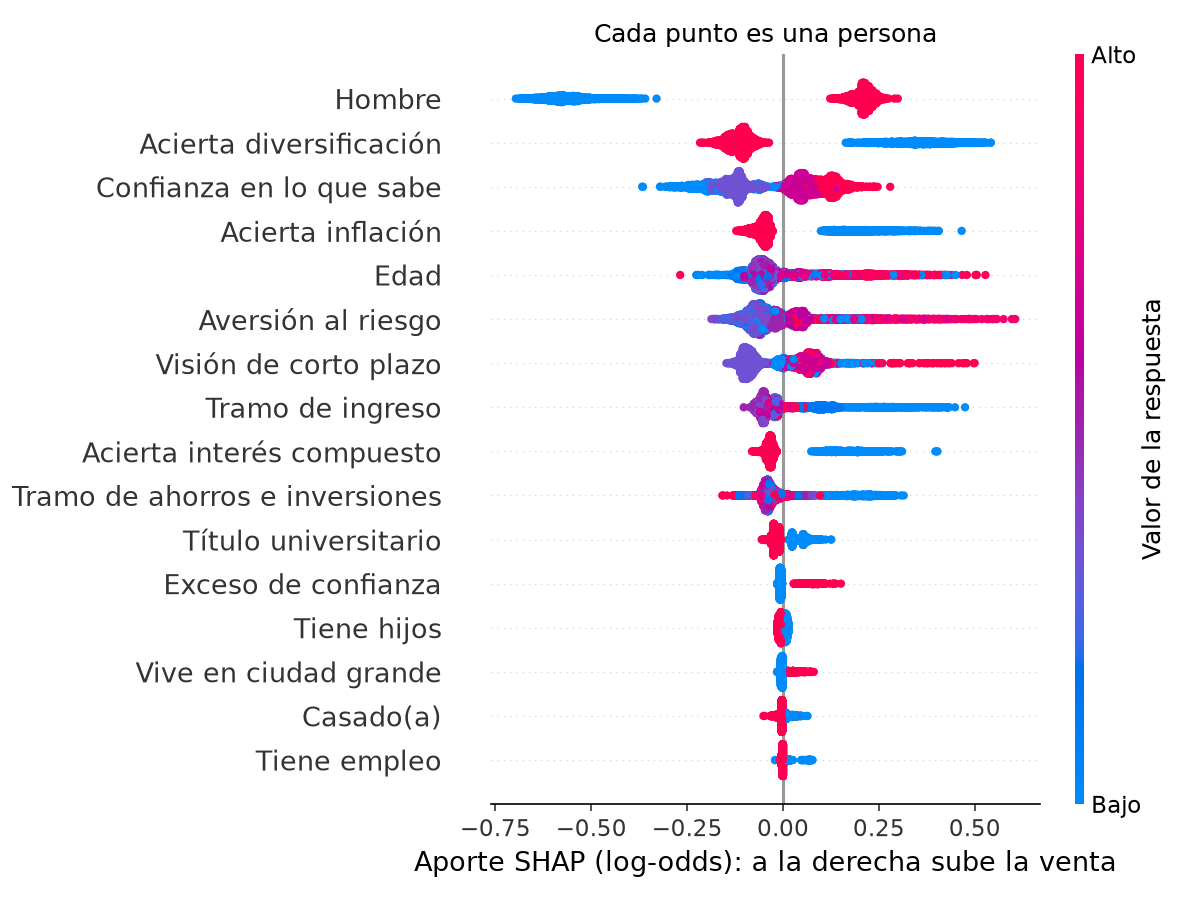
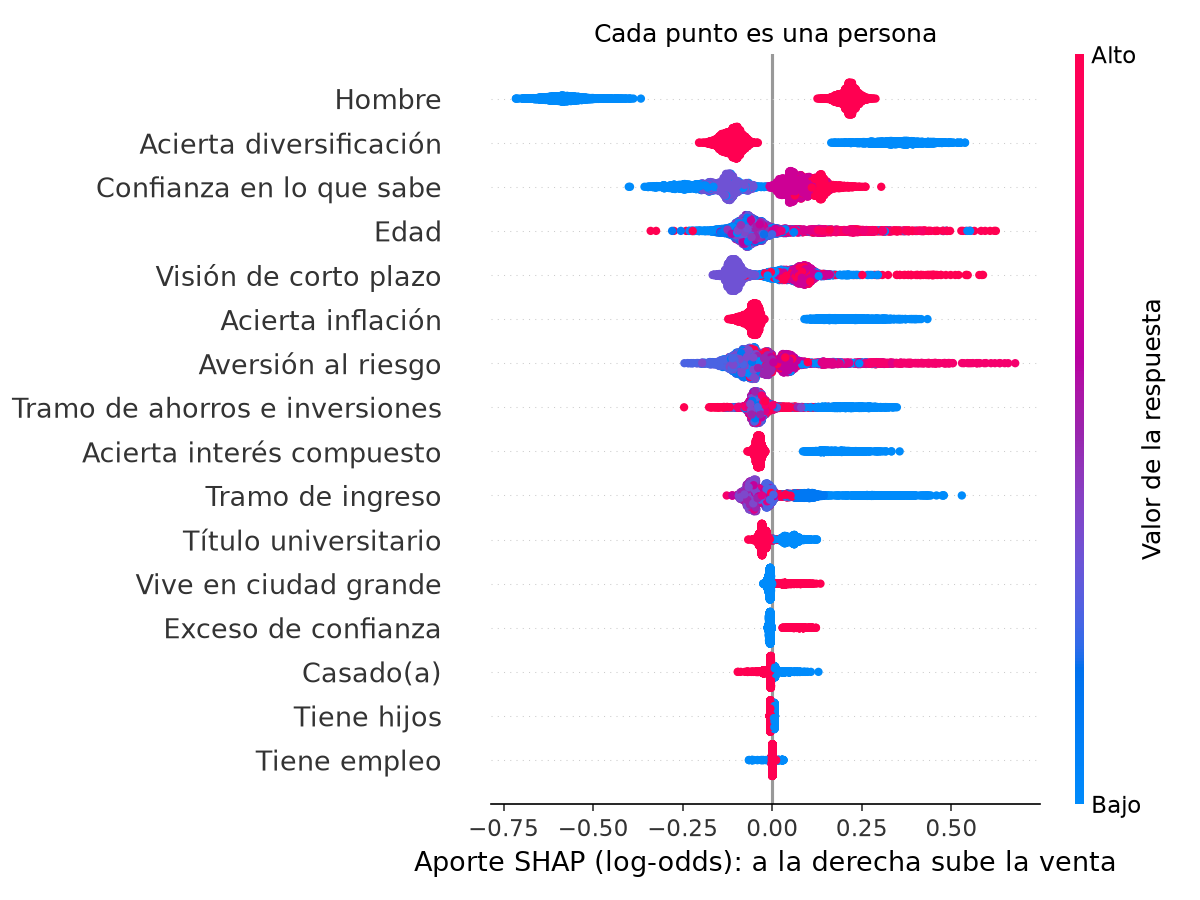
docs: regenerate SHAP with final model and fix documentation inconsistencies

diff --git a/app/app.py b/app/app.py
@@ -165,9 +165,9 @@ with ask:
                 arrow = "sube" if f["direction"] == "increases" else "baja"
                 st.markdown(f"- {f['label']}: {arrow} tu propensión a vender.")
         st.caption("Esto explica lo que hace el modelo, calculado con SHAP. No dice que esa "
-                   "respuesta sea la causa de que alguien venda. Todavía no preguntamos por tu "
-                   "actitud ante el riesgo ni por tu visión de corto plazo: usamos la respuesta "
-                   "más común en Japón.")
+                   "respuesta sea la causa de que alguien venda. No preguntamos por tu actitud "
+                   "ante el riesgo ni por tu visión de corto plazo: usamos la respuesta más "
+                   "común en Japón.")
         if result["warnings"]:
             st.info("Tu edad está fuera de las edades de la encuesta japonesa "
                     f"({meta['age_range'][0]} a {meta['age_range'][1]} años). "
@@ -232,9 +232,10 @@ with how:
     st.markdown(
         "- Aprendió en Japón y lo usarán colombianos. Por eso mostramos tercios y no "
         "porcentajes.\n"
-        "- Dos preguntas del modelo, actitud ante el riesgo y visión de corto plazo, todavía no "
-        "se hacen: no conocemos su redacción original.\n"
+        "- Dos preguntas del modelo, actitud ante el riesgo y visión de corto plazo, no se "
+        "hacen: usamos la respuesta más común en Japón.\n"
         "- El ingreso y los ahorros se preguntan por nivel frente a la gente del país, de forma "
         "provisional.\n"
         "- En EE. UU. (NFCS 2018) las preguntas de finanzas y el exceso de confianza van en la "
-        "misma dirección que en Japón; la prueba completa del modelo allá está pendiente.")
+        "misma dirección que en Japón. No medimos el modelo allá: la encuesta tiene muy "
+        "pocos casos de venta.")

diff --git a/README.md b/README.md
@@ -8,8 +8,8 @@ BolsaLAB estima **qué tan propensa es una persona a vender sus inversiones dura
 
 ## Qué hace la app
 
-1. **Pregunta.** La persona responde unas 14 preguntas: edad, educación, situación familiar, ingreso, tres preguntas de conocimiento financiero y cómo se ve a sí misma frente al riesgo. Cada pregunta corresponde a una columna del dataset de entrenamiento.
-2. **Consulta el modelo.** El frontend envía las respuestas a la API, que llama al modelo y devuelve el resultado.
+1. **Pregunta.** La persona responde 13 preguntas: edad, sexo, educación, situación familiar, empleo, ingreso, ahorros, tres preguntas de conocimiento financiero y qué tan segura se siente de lo que sabe. Cada pregunta corresponde a una columna del dataset de entrenamiento.
+2. **Consulta el modelo.** Las respuestas pasan al modelo congelado, que devuelve el resultado.
 3. **Muestra el resultado.** La persona ve si es más, igual o menos propensa a vender que el promedio, y las respuestas que más pesaron. La app no muestra un porcentaje personal: el modelo se entrenó en Japón y ese número no sería confiable en Colombia.
 
 ## El modelo
@@ -20,7 +20,7 @@ BolsaLAB estima **qué tan propensa es una persona a vender sus inversiones dura
 | Población | Personas que en marzo de 2020 vendieron todo, vendieron parte o mantuvieron sus inversiones (54.704) |
 | Variable objetivo | `sold`: 1 si vendió todo o parte (19,87 %), 0 si mantuvo |
 | Modelos que comparamos | Trivial, regresión logística, Random Forest, XGBoost, LightGBM, CatBoost y una red neuronal pequeña |
-| Contraste fuera de Japón | Panel de la Survey of Consumer Finances 2007-2009 (Reserva Federal de EE. UU.) |
+| Contraste fuera de Japón | Preparamos la tabla del panel de la Survey of Consumer Finances 2007-2009 (Reserva Federal de EE. UU.), pero el modelo no se evaluó ahí |
 | Modelo final | XGBoost con parada temprana y poda, con 17 variables |
 | Resultado en la prueba final | AUROC 0,670 (0,658 a 0,682) con 10.941 personas que el modelo nunca vio. En el 10 % de mayor riesgo vendió el 40,8 %, el doble del promedio |
 
@@ -45,29 +45,29 @@ uv run --group app streamlit run app/app.py
 
 ## La API
 
-El backend expone un endpoint. Los nombres de la ruta y de los campos son una propuesta del equipo.
+La API usa `bolsalab/modeling/predict.py`, el mismo código de la app de Streamlit. La ruta es una propuesta del equipo:
 
 ```
 POST /api/v1/crash-reaction/predict
 ```
 
-Recibe las respuestas del cuestionario:
+Recibe las respuestas del cuestionario. Los niveles van de 1 a 5 frente a la gente del país, y la confianza de 1 a 5:
 
 ```json
 {
   "age": 27,
-  "gender": "female",
-  "university": false,
+  "male": false,
+  "university": true,
   "married": false,
   "has_children": false,
   "urban": true,
   "employed": true,
-  "income_bracket": 3,
-  "assets_bracket": 1,
-  "knowledge": { "interest": "correct", "inflation": "dont_know", "diversification": "correct" },
-  "knowledge_confidence": 4,
-  "risk_aversion": 3,
-  "short_term_view": 4
+  "income_level": 3,
+  "assets_level": 1,
+  "interest": "more",
+  "inflation": "dont_know",
+  "diversification": "false",
+  "knowledge_confidence": 4
 }
 ```
 
@@ -76,19 +76,18 @@ Devuelve la categoría y lo que la explica:
 ```json
 {
   "model_version": "crash_reaction_v1",
-  "probability": 0.231,
-  "base_rate": 0.1987,
-  "relative_to_average": 1.16,
   "category": "similar",
   "top_factors": [
-    { "feature": "financial_literacy", "direction": "increases", "label": "Acertó 2 de 3 preguntas de conocimiento" }
+    { "feature": "knows_inflation", "label": "...", "direction": "increases", "impact": 0.21, "actionable": true }
   ],
-  "in_training_range": true,
-  "warnings": ["assets_at_lowest_training_bracket"]
+  "failed_questions": ["inflation"],
+  "overconfident": false,
+  "not_asked": ["risk_aversion", "short_term_view"],
+  "warnings": []
 }
 ```
 
-`probability` es de uso interno; la pantalla muestra `category` (`more_likely`, `similar` o `less_likely`), los factores y los avisos.
+`predict()` también devuelve `probability` y `base_rate`, que son de uso interno. La pantalla muestra `category` (`more_likely`, `similar` o `less_likely`), los factores y los avisos. Nunca muestra la probabilidad.
 
 ## Cómo está organizado el repositorio
 

diff --git a/docs/prototipo.md b/docs/prototipo.md
@@ -28,8 +28,8 @@ La app no carga datos de ninguna encuesta. Usa el modelo de `models/` y los resu
 
 Las reglas están en la sección 8 del protocolo, registradas antes de calcular.
 
-- **Tercios.** Con validación cruzada de 5 particiones sobre el entrenamiento, los cortes quedaron en 15,9 % y 22,1 % de probabilidad. La app nunca muestra ese número.
-- **Dos preguntas que no se hacen.** No conocemos la redacción japonesa de `risk_aversion` ni de `short_term_view`. La app usa el valor más común (0,5 y 2), lo dice en pantalla y no las muestra como factor.
+- **Tercios.** Con validación cruzada de 5 particiones sobre el entrenamiento, los cortes quedaron en 15,7 % y 22,2 % de probabilidad. La app nunca muestra ese número.
+- **Dos preguntas que no se hacen.** Conocemos su redacción (Lal et al., 2024): la probabilidad de lluvia con la que la persona lleva paraguas (`risk_aversion`) y qué tan de acuerdo está con "como el futuro es incierto, es una pérdida de tiempo pensar en él" (`short_term_view`). Decidimos no preguntarlas en la app. Usa el valor más común del entrenamiento (0,5 y 2), lo dice en pantalla y no las muestra como factor.
 - **Ingreso y ahorros por nivel.** Cinco niveles frente a la gente del país, llevados al tramo japonés en la misma posición: ingreso 1→3, 2→4, 3→5, 4→6, 5→8; ahorros 1→1, 2→3, 3→5, 4→7, 5→9. Es provisional hasta tener los tramos de la IEFIC.
 - **Las preguntas de finanzas y la de confianza** son las del artículo (Bawalle et al., 2025, sección 2.3), con $ en vez de ¥.
 - **Los factores se separan** en "lo que puedes trabajar" (las preguntas de finanzas y la confianza) y "tu situación" (edad, sexo, ingreso y demás), para que el resultado lleve a una acción sin culpar a nadie por lo que no depende de él.
@@ -38,22 +38,22 @@ Las reglas están en la sección 8 del protocolo, registradas antes de calcular.
 
 ## Lo que encontramos con SHAP
 
-Peso medio de cada respuesta en 5.000 personas del entrenamiento (`reports/shap_global.csv`):
+Peso medio de cada respuesta en 5.000 personas del entrenamiento, con el modelo final (`reports/shap_global.csv`):
 
 | Respuesta | Parte del peso total | Dirección |
 |---|---|---|
-| Sexo (hombre) | 28 % | Los hombres venden más |
-| Acierta diversificación | 15 % | Acertar baja la venta |
+| Sexo (hombre) | 27 % | Los hombres venden más |
+| Acierta diversificación | 14 % | Acertar baja la venta |
 | Confianza en lo que sabe | 9 % | Más confianza sube la venta |
 | Acierta inflación | 7 % | Acertar baja la venta |
-| Edad | 7 % | Sube en las edades altas |
-| Aversión al riesgo y visión de corto plazo | 13 % entre las dos | La app no las pregunta todavía |
+| Edad | 8 % | Sube en las edades altas |
+| Aversión al riesgo y visión de corto plazo | 14 % entre las dos | La app no las pregunta |
 | Acierta interés compuesto | 5 % | Acertar baja la venta |
 
-- **Las tres preguntas de finanzas suman 27 % y siempre bajan la venta.** Va en la dirección de la hipótesis y de Bawalle et al. (2025).
+- **Las tres preguntas de finanzas suman 26 % y siempre bajan la venta.** Va en la dirección de la hipótesis y de Bawalle et al. (2025).
 - **El sexo es lo que más pesa.** En el entrenamiento vendió el 23,6 % de los hombres y el 12,2 % de las mujeres, así que no es un error. Es el resultado que más hay que cuidar al mostrar y lo revisamos en la actividad de desempeño por grupos.
 - **La variable de exceso de confianza casi no pesa (1 %), aunque quienes la tienen vendieron más** (28,4 % contra 19,2 %). Se construye con la confianza y las preguntas de finanzas, y SHAP le da su peso a esas dos. Es la advertencia de SHAP con variables relacionadas.
-- **Ninguna variable domina sola** (la mayor tiene el 28 %), así que no se activa la alarma del protocolo.
+- **Ninguna variable domina sola** (la mayor tiene el 27 %), así que no se activa la alarma del protocolo.
 - **SHAP explica lo que hace el modelo, no la causa de la venta.**
 
 ## Desempeño por grupos

diff --git a/docs/nfcs.md b/docs/nfcs.md
@@ -59,9 +59,9 @@ Para `overconfidence` usamos la misma regla del archivo japonés: 1 si marcó 5,
 
 Aun así, la relación va en la misma dirección que en Japón: entre quienes tienen exceso de confianza vendió el 6,9 %, y entre los demás, el 2,5 %.
 
-**7. Disposición al riesgo.** La NFCS pregunta "al pensar en sus inversiones, ¿qué tan dispuesto está a asumir riesgos?", de 1 (nada) a 10 (muy dispuesto) (J2). En Japón `risk_aversion` va de 0 a 1 y al revés: más alto es evitar más el riesgo. La convertimos con `(10 − J2) / 9`, sin redondear: quien marcó 1 queda en 1 y quien marcó 10, en 0. Sacamos a 10 personas que respondieron "no sabe" o "prefiere no decir".
+**7. Disposición al riesgo.** La NFCS pregunta "al pensar en sus inversiones, ¿qué tan dispuesto está a asumir riesgos?", de 1 (nada) a 10 (muy dispuesto) (J2). En Japón `risk_aversion` va de 0 a 1; supusimos que un valor alto es evitar más el riesgo, algo que no pudimos confirmar. La convertimos con `(10 − J2) / 9`, sin redondear: quien marcó 1 queda en 1 y quien marcó 10, en 0. Sacamos a 10 personas que respondieron "no sabe" o "prefiere no decir".
 
-**Hallazgo y duda:** la relación con vender no se parece entre los dos países. En la NFCS vende más quien más acepta riesgo (13,3 % con 10 contra 1,6 % con 1). En Japón la relación tiene forma de U: venden más los dos extremos (24,5 % en 0 y 31,7 % en 0,9) que el medio (16 % a 19 %). No sabemos la redacción de la pregunta japonesa, así que no podemos saber si miden lo mismo.
+**Hallazgo y duda:** la relación con vender no se parece entre los dos países. En la NFCS vende más quien más acepta riesgo (13,3 % con 10 contra 1,6 % con 1). En Japón la relación tiene forma de U: venden más los dos extremos (24,5 % en 0 y 31,7 % en 0,9) que el medio (16 % a 19 %). En Japón es la pregunta del paraguas (Lal et al., 2024), que no mide lo mismo que la de la NFCS.
 
 **8. Ingreso.** Japón tiene 12 tramos en yenes y la NFCS 8 en dólares (A8), con cortes distintos. Decidimos no convertir con la tasa de cambio, porque el costo de vida no cuesta lo mismo en cada país: con 110 yenes por dólar, muchos estadounidenses quedarían arriba solo por la moneda. Comparamos por posición: quien está en el 20 % que más gana en EE. UU. queda en el tramo japonés del 20 % que más gana en Japón. Para cada tramo tomamos la mitad de su franja en la fila de ingresos y buscamos el tramo japonés que contiene ese punto:
 
@@ -108,7 +108,7 @@ Los resultados de la comparación con Japón están en el notebook `notebooks/1_
 - Algunas personas quizás solo tenían bonos. Como mucho son 96 (5,3 %).
 - La edad es aproximada: todos los de un rango quedan con la misma edad, y el 70 de "65 o más" es una decisión nuestra.
 - La conversión de la confianza de 1-7 a 1-5 es nuestra. Pasar de 5 a 6 en la NFCS no cambia nada (los dos quedan en 4), y eso afecta quién queda con exceso de confianza.
-- No sabemos qué pregunta usó Japón para el riesgo. Puede que no mida lo mismo que la NFCS.
+- Japón mide el riesgo con la pregunta del paraguas (Lal et al., 2024) y la NFCS lo pregunta directamente: no miden lo mismo.
 - El ingreso compara posiciones, no montos. La tabla depende de cómo se reparten los ingresos de los inversionistas en cada encuesta.
 - El valor de las inversiones de la NFCS no incluye cuentas de retiro. No es igual a los activos financieros de Japón.
 

diff --git a/docs/variables.md b/docs/variables.md
@@ -54,7 +54,7 @@ La NFCS tiene 15 de las 17 variables. Las pasamos a los nombres y escalas de Jap
 | `employed` | `Employment` | A9 | Independiente, tiempo completo o medio tiempo |
 | `income_bracket` | 12 tramos en yenes | A8, 8 tramos en dólares | Por posición dentro de cada país |
 | `assets_bracket` | 10 tramos de activos en yenes | B4, valor de las inversiones fuera de retiro, 10 tramos en dólares | Por posición dentro de cada país. No incluye cuentas de retiro |
-| `risk_aversion` | 0 a 1; más alto evita más el riesgo | J2, disposición al riesgo de 1 a 10 | Invertida: (10 − J2) / 9. No sabemos la pregunta japonesa |
+| `risk_aversion` | 0 a 1: el porcentaje de la pregunta del paraguas dividido por 100 | J2, disposición al riesgo de 1 a 10 | Invertida: (10 − J2) / 9, suponiendo que en Japón un valor alto es evitar más el riesgo, algo que no pudimos confirmar. Las dos preguntas no miden lo mismo |
 | `short_term_view` | `Myopic_View` | No existe | No hay una pregunta parecida |
 
 ## Decisiones
@@ -62,7 +62,7 @@ La NFCS tiene 15 de las 17 variables. Las pasamos a los nombres y escalas de Jap
 - **Las tres preguntas de conocimiento van por separado y no sumadas.** Así el modelo aprende cuál pesa más, y la app sabe qué pregunta falló cada persona. El conocimiento financiero es el único predictor con dirección estable en los estudios leídos (Bucher-Koenen y Ziegelmeyer, 2011; Bawalle et al., 2025).
 - **La edad entra también al cuadrado.** La venta no cambia en línea recta con la edad: vendió el 28,1 % de quienes tienen 18 a 24 años, entre 17 y 19 % de las edades medias y el 25,5 % desde los 60. La regresión logística solo capta esa forma en U con la edad al cuadrado. Bawalle et al. (2025) también la usan.
 - **`overconfidence` usa la columna del archivo,** la misma que usaron los autores, para comparar con su resultado (hipótesis H2). Ver el protocolo, sección 3.
-- **`risk_aversion` y `short_term_view` entran** porque la hipótesis H5 necesita la tolerancia al riesgo y Bawalle et al. (2025) asocian la visión de corto plazo con más venta. Falta confirmar la redacción original de esas dos preguntas.
+- **`risk_aversion` y `short_term_view` entran** porque la hipótesis H5 necesita la tolerancia al riesgo y Bawalle et al. (2025) asocian la visión de corto plazo con más venta. Su redacción está en Lal et al. (2024): la probabilidad de lluvia con la que la persona lleva paraguas, y qué tan de acuerdo está con "como el futuro es incierto, es una pérdida de tiempo pensar en él". La app no las pregunta, por decisión del equipo: usa el valor más común del entrenamiento.
 - **Ingreso y activos entran como número de tramo** (1, 2, 3…), que es como los preguntaría la app.
 
 ## Columnas que no entran

diff --git a/docs/plan-ajuste-por-familias.md b/docs/plan-ajuste-por-familias.md
@@ -25,7 +25,7 @@ Hasta ahora corrimos 32 experimentos y ninguno superó a XGBoost. Con este plan 
 | 3 | **Restricciones monótonas**: acertar las preguntas de finanzas nunca puede subir el riesgo | SHAP y Bawalle et al. (2025) muestran esa dirección, y la app enseña eso | No se hizo: con el visto bueno de nuestro tutor cerramos las pruebas el 18 de noviembre, porque el límite está en la información y no en el modelo |
 | 4 | **Random Forest con poda**: `ccp_alpha` corta las ramas que aportan poco y `max_features` limita cuántas variables mira cada corte | Es la poda clásica que mencionó el tutor | No se hizo: con el visto bueno nuestro tutor cerramos las pruebas el 18 de noviembre, porque el límite está en la información y no en el modelo |
 | 5 | **Variables** (ver abajo) | Una variable nueva solo ayuda si trae información que el modelo no tenía | Ninguna variable nueva mejoró (todas a menos de 0,001). Quitar las dos preguntas que la app no hace cuesta 0,0075: se quedan. El modelo conserva las 17 variables |
-| 6 | **Redes en PyTorch** (ver abajo) | Lo pidió el tutor | Hecho. Ninguna red pasó de 0,66, así que la configuración final no cambia. El código y los números exactos se suman al unir su rama |
+| 6 | **Redes en PyTorch** (ver abajo) | Lo pidió el tutor | Hecho. La mejor red sacó 0,6537 ± 0,0036 con validación anidada, por debajo del modelo final. Detalle en `docs/experimentos.md` |
 | 7 | **Cierre**: congelar el modelo y medirlo una sola vez en el 20 % de prueba, con las reglas del protocolo (sección 7). La NFCS no la usamos para validar porque tiene muy pocos casos (documento del Ciclo 3B, sección 3) | | Hecho el 19 de noviembre: AUROC 0,670 (0,658 a 0,682), consistente con la validación. Modelo congelado |
 | 8 | **Búsqueda con Optuna** en XGBoost: busca en rangos completos en vez de listas cortas (se corre antes del cierre; el 8 es solo el siguiente número libre) | Queremos descartar que una combinación mejor se nos esté escapando entre los valores de la rejilla | El AUROC no cambió (0,6595). Brecha de 0,016. Cada partición eligió valores distintos: no hay una combinación mejor que las demás |
 | 9 | **Ideas de la literatura**: aleatoriedad en XGBoost (`subsample`, `colsample_bytree`, `min_child_weight`) y promedio de XGBoost, CatBoost y regresión logística | Son las dos ideas de los benchmarks recientes que no habíamos probado; las dos buscan no aumentar el sobreajuste | Ninguna pasó 0,6636. Aleatoriedad 0,6611 (brecha 0,022) y promedio 0,6597 (brecha 0,014, la más baja). El XGBoost oficial sigue ganando |

diff --git a/docs/datos.md b/docs/datos.md
@@ -7,8 +7,8 @@ Usamos seis datasets públicos. Ninguno se sube a git: cada integrante los desca
 | Dataset | Carpeta | Para qué lo usamos | Qué mide y cuántos son |
 |---|---|---|---|
 | **Encuesta japonesa** (Bawalle, Khan y Kadoya, 2025) | `japan_panic_selling_2020` | **Entrenar el modelo** | Qué hicieron 191.762 clientes de un corredor en línea durante la caída de marzo de 2020. Tenían inversiones 54.704; vendieron todo o parte 10.869 (19,87 %) |
-| **Panel SCF 2007-2009** (Reserva Federal de EE. UU.) | `scf_panel_2007_2009` | **Probar el modelo fuera de Japón** con las variables que comparten | Las mismas 3.857 familias entrevistadas antes (2007) y después (2009) de la crisis. Tenían acciones o fondos 1.563; salieron unas 311 (19,9 %) |
-| **Encuesta de Hanspal, Weber y Wohlfart** (EE. UU., abril de 2020) | `us_covid_crash_hanspal_2020` | Segunda prueba fuera de Japón | 4.567 inversionistas; 1.036 redujeron su proporción en acciones |
+| **Panel SCF 2007-2009** (Reserva Federal de EE. UU.) | `scf_panel_2007_2009` | Tabla preparada para comparar fuera de Japón. El modelo no se evaluó ahí | Las mismas 3.857 familias entrevistadas antes (2007) y después (2009) de la crisis. Tenían acciones o fondos 1.563; salieron unas 311 (19,9 %) |
+| **Encuesta de Hanspal, Weber y Wohlfart** (EE. UU., abril de 2020) | `us_covid_crash_hanspal_2020` | Candidata para comparar fuera de Japón. No se usó | 4.567 inversionistas; 1.036 redujeron su proporción en acciones |
 | **NFCS Investor Survey 2018** (FINRA) | `nfcs_investor` | Ver si los efectos van en la misma dirección que en Japón, y comparar lo que la gente dice que haría con lo que hizo | 87 de 1.942 vendieron en la caída de febrero de 2018. De 128 que dijeron que venderían ante una caída de 20 %, 35 vendieron de verdad |
 | **CRR 2009 Retirement Survey** (Boston College) | `crr_2009_retirement_survey` | Ver si los efectos van en la misma dirección | 262 de 1.269 trabajadores de 45 a 59 años pasaron su cuenta de retiro a bonos o efectivo en la crisis de 2008 |
 | **Encuesta coreana de fondos** (Chung y Kim) | `korea_fund_investors_2007_2008` | Ver si los efectos van en la misma dirección | De 581 personas que invertían en 2007, 126 ya no invertían en 2008 |

diff --git a/docs/protocolo-evaluacion.md b/docs/protocolo-evaluacion.md
@@ -244,9 +244,6 @@ La prueba final se corre una sola vez con `uv run python -m bolsalab.modeling.tr
 
 **Resultado (19 de noviembre de 2026).** AUROC de 0,670, con intervalo de 0,658 a 0,682: incluye 0,6595, así que es consistente, y no hay alarmas. El detalle está en `docs/experimentos.md`, sección 4.
 
-**Alarmas.** Las de esta sección: un AUROC de 0,82 o más (posible fuga) o un intervalo que incluya 0,5.
-- **Qué no se hace.** No se corre dos veces. Después de ver las métricas no se cambian el modelo, los hiperparámetros, las variables ni los cortes de la app. Los cortes de los tercios salen del 80 %, nunca de la prueba. Solo si el programa falla antes de mostrar métricas se corrige y se vuelve a correr.
-
 **Alarmas.** Revisamos si hay fuga ante un AUROC de 0,82 o más (Elkind lo logró con historial de portafolio, no con un cuestionario), ante un intervalo que incluya 0,5 o ante una variable que domine la explicación SHAP.
 
 ## 8. Qué ve el usuario
